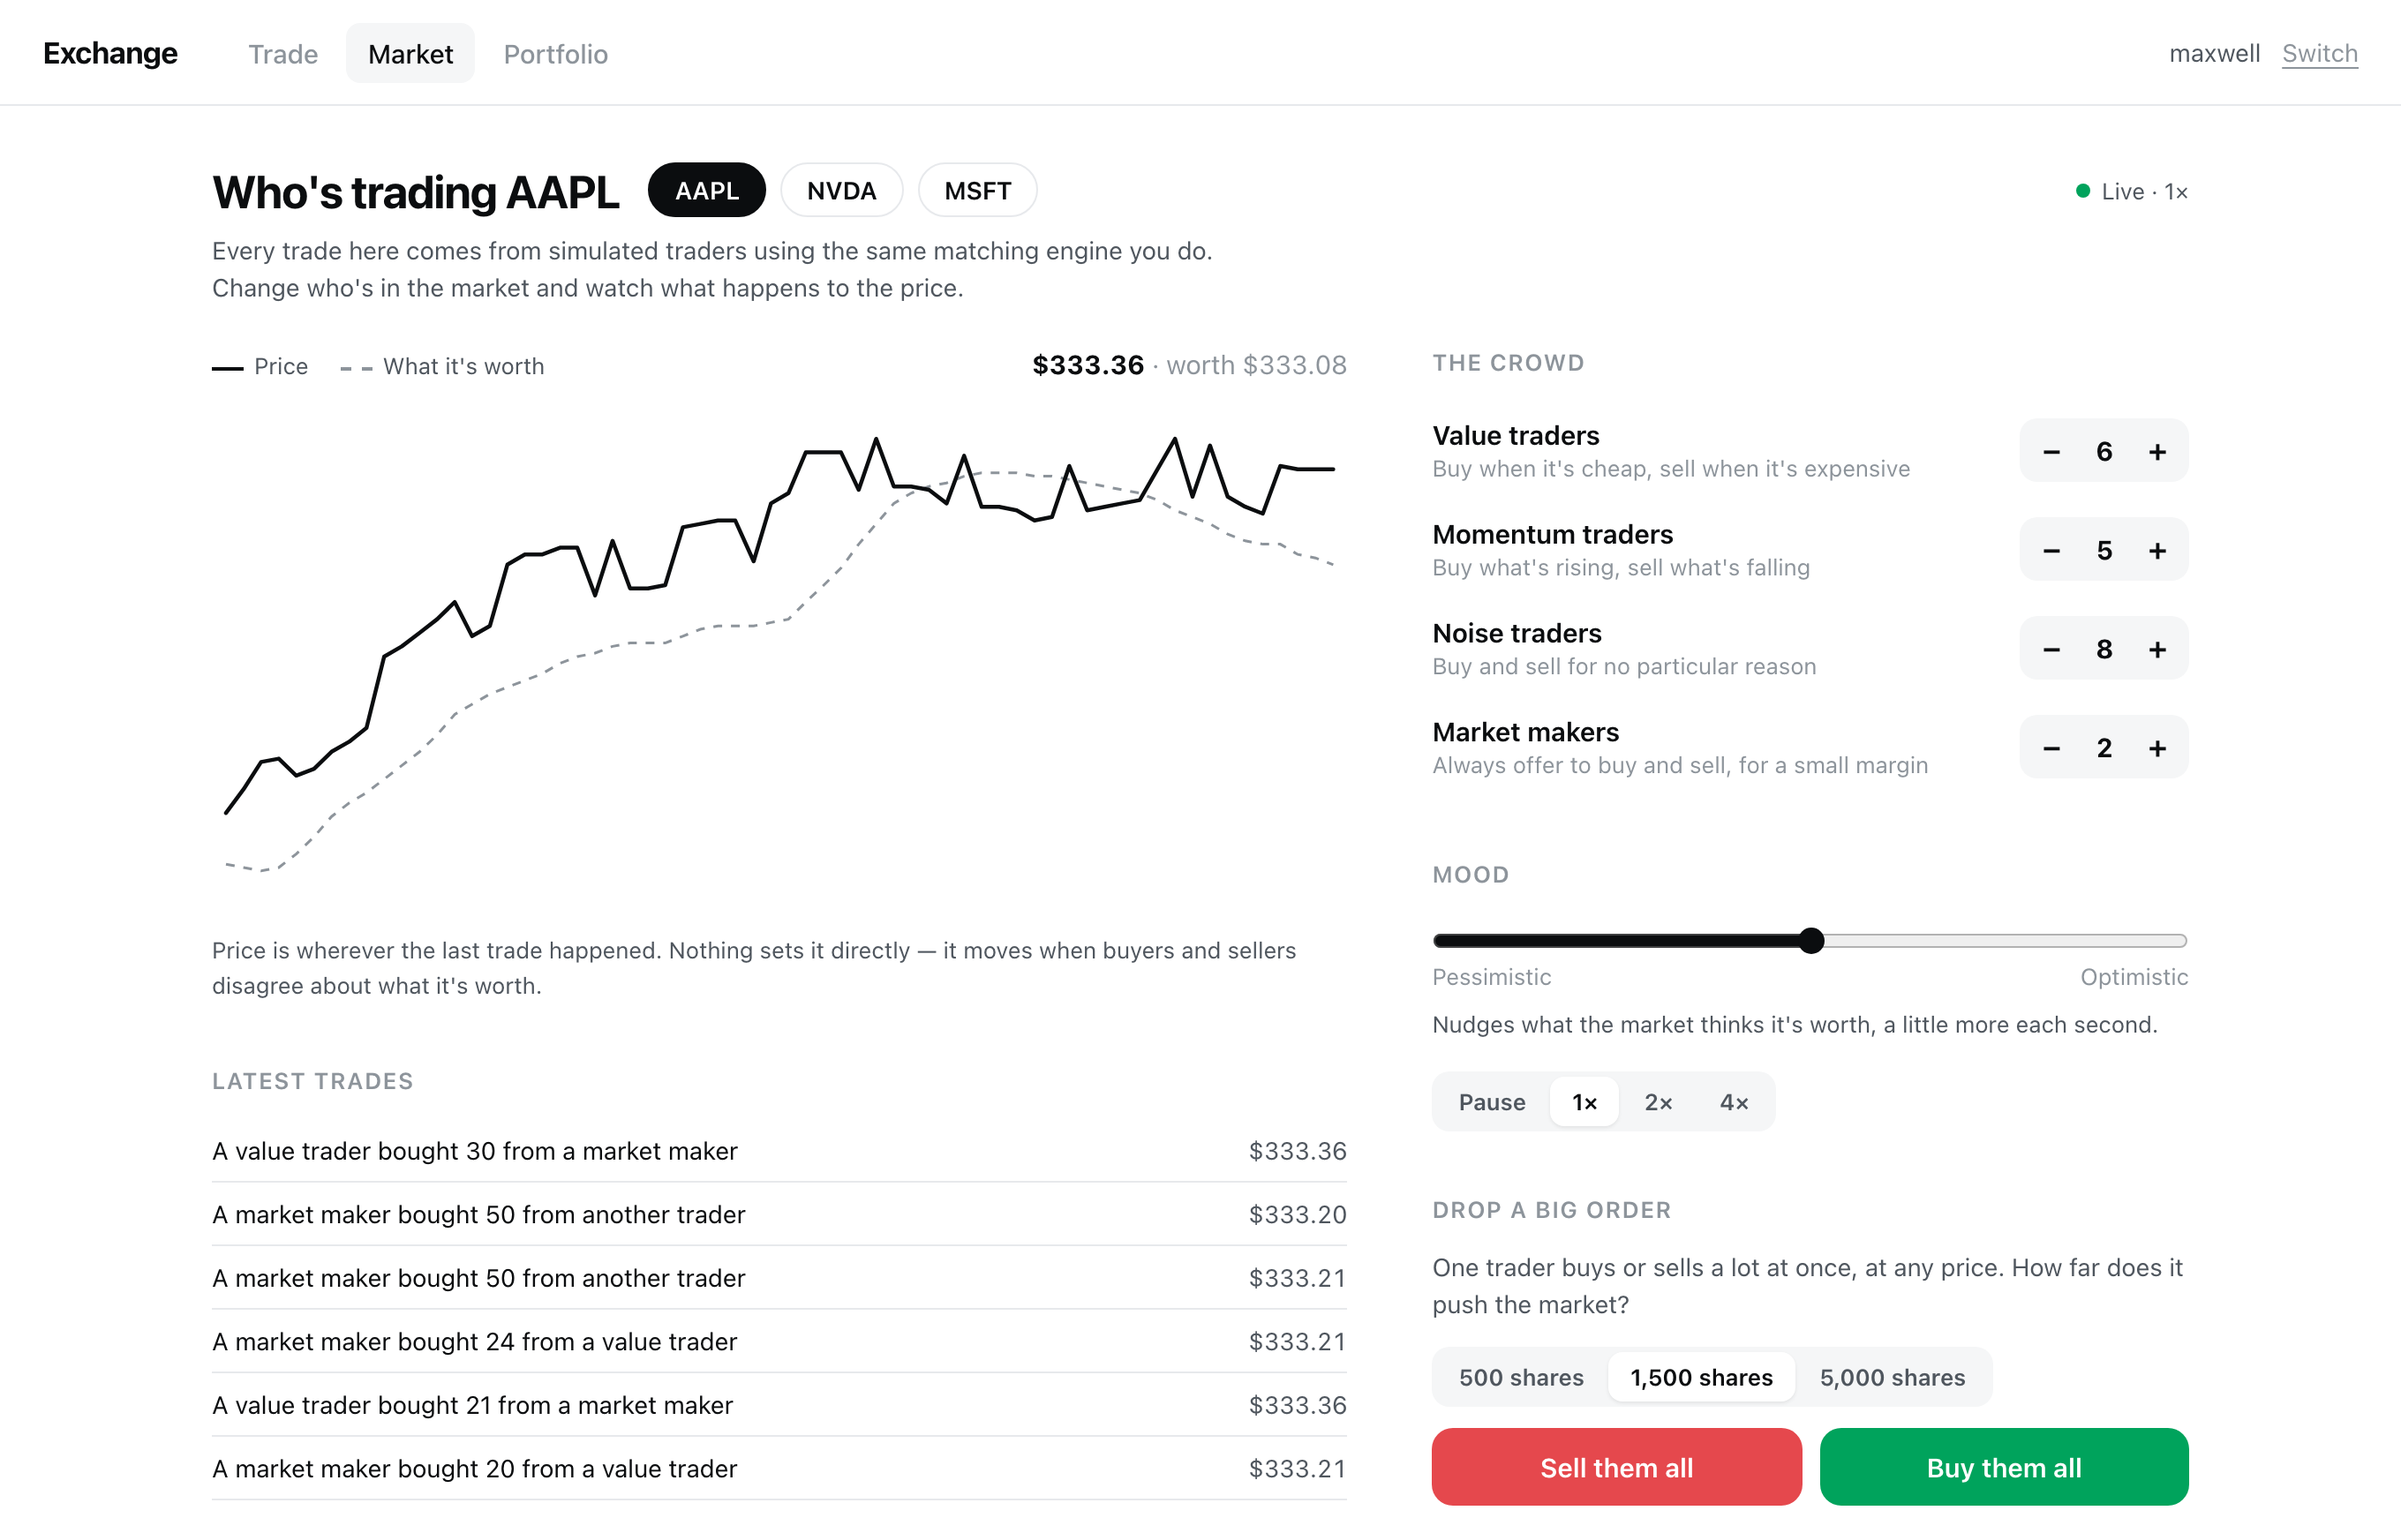
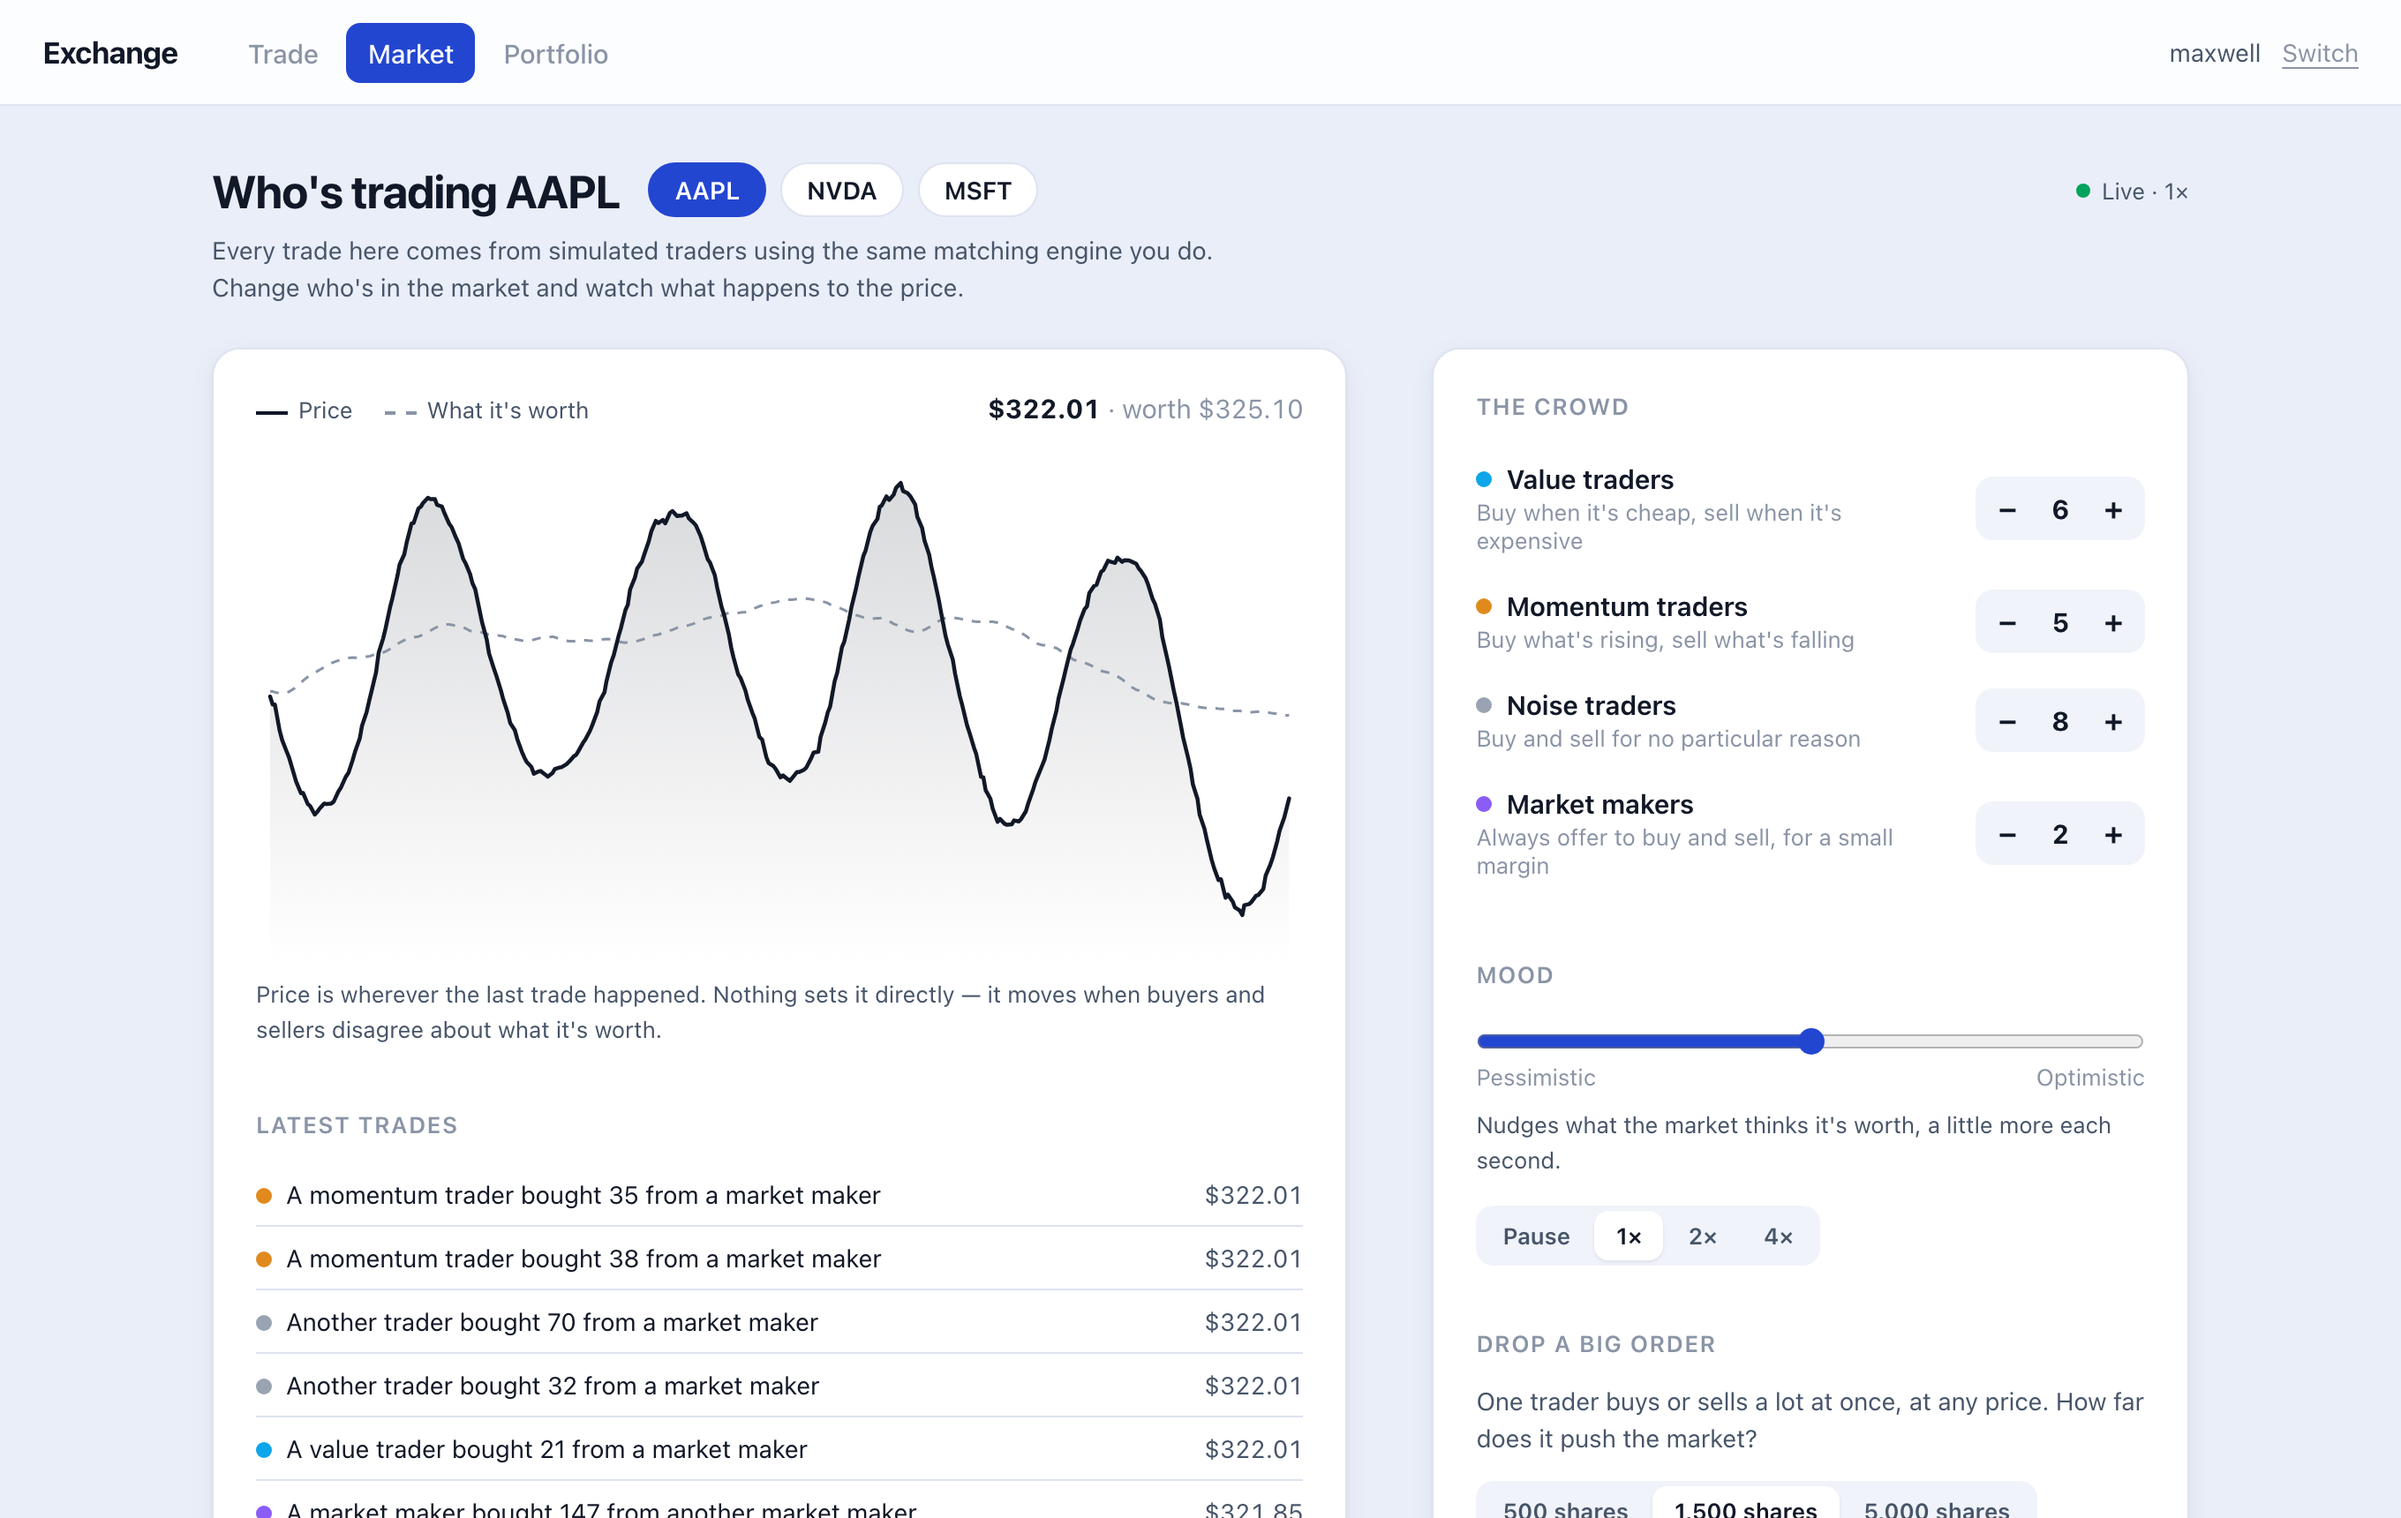
style: cobalt theme with card surfaces and per-bot colours
Sections sit on white cards over a blue-gray page, with one blue accent for
whatever is selected. Each kind of bot gets its own colour in the crowd list
and the trade feed, and the chart has a soft fill under the line. Bid and ask
drop to their own line on narrow screens.

diff --git a/frontend/src/index.css b/frontend/src/index.css
@@ -1,24 +1,37 @@
 :root {
-  --bg: #ffffff;
-  --panel: #f5f6f7;
-  --line: #e7e9ec;
-  --ink: #0b0d0f;
-  --ink-2: #4f565e;
-  --ink-3: #8d949b;
+  /* Theme tokens. --page is behind everything, --card is the raised surface. */
+  --page: #eaeef8;
+  --card: #ffffff;
+  --bg: var(--card);
+  --panel: #f0f3fa;
+  --line: #dde3f0;
+  --ink: #111827;
+  --ink-2: #475569;
+  --ink-3: #8a94a6;
+  --accent: #2346d1;
+  --accent-ink: #ffffff;
   --up: #00a35c;
   --down: #e5484d;
-  --up-soft: #e6f6ee;
-  --down-soft: #fdeced;
-  --radius: 14px;
+  --up-soft: #e3f5ec;
+  --down-soft: #fdeaeb;
+  --shadow: 0 1px 2px rgba(15, 23, 42, 0.04), 0 4px 16px rgba(15, 23, 42, 0.05);
+  /* One colour per kind of bot. Never green or red -- those mean up and down. */
+  --c-value: #0ea5e9;
+  --c-momentum: #e08a1e;
+  --c-noise: #9aa3b2;
+  --c-maker: #8b5cf6;
+  --radius: 16px;
   font-family: -apple-system, BlinkMacSystemFont, "SF Pro Text", "Segoe UI",
     Roboto, Helvetica, Arial, sans-serif;
   color: var(--ink);
-  background: var(--bg);
+  background: var(--page);
   -webkit-font-smoothing: antialiased;
 }
 
+
+
 * { box-sizing: border-box; }
-body { margin: 0; background: var(--bg); }
+body { margin: 0; background: var(--page); }
 button { font: inherit; color: inherit; }
 input { font: inherit; }
 .num { font-variant-numeric: tabular-nums; }
@@ -33,8 +46,8 @@ input { font: inherit; }
   position: sticky; top: 0; z-index: 10;
   display: flex; align-items: center; gap: 28px;
   height: 60px; padding: 0 24px;
-  background: rgba(255, 255, 255, 0.92);
-  backdrop-filter: blur(8px);
+  background: color-mix(in srgb, var(--card) 88%, transparent);
+  backdrop-filter: blur(10px);
   border-bottom: 1px solid var(--line);
 }
 .wordmark { font-weight: 700; font-size: 17px; letter-spacing: -0.02em; }
@@ -45,7 +58,7 @@ input { font: inherit; }
   font-size: 15px; font-weight: 500; color: var(--ink-3);
 }
 .tab:hover { color: var(--ink); }
-.tab.on { color: var(--ink); background: var(--panel); }
+.tab.on { color: var(--accent-ink); background: var(--accent); }
 .who { margin-left: auto; display: flex; align-items: center; gap: 12px; font-size: 14px; }
 .link {
   border: none; background: none; cursor: pointer; padding: 0;
@@ -76,7 +89,7 @@ main { padding: 32px 24px 80px; }
 .btn:disabled { opacity: 0.4; cursor: not-allowed; }
 .btn-buy { background: var(--up); color: #fff; }
 .btn-sell { background: var(--down); color: #fff; }
-.btn-ink { background: var(--ink); color: #fff; }
+.btn-ink { background: var(--accent); color: var(--accent-ink); }
 .btn-quiet { background: var(--panel); color: var(--ink); }
 
 .field { display: block; margin-bottom: 16px; }
@@ -86,11 +99,11 @@ main { padding: 32px 24px 80px; }
   border: 1px solid var(--line); border-radius: 12px; background: var(--bg);
   font-size: 17px; font-variant-numeric: tabular-nums;
 }
-.input:focus { outline: 2px solid var(--ink); outline-offset: -1px; border-color: transparent; }
+.input:focus { outline: 2px solid var(--accent); outline-offset: -1px; border-color: transparent; }
 
 .note { font-size: 14px; color: var(--ink-2); line-height: 1.5; }
 .err {
-  background: var(--down-soft); color: #a3262b;
+  background: var(--down-soft); color: var(--down);
   padding: 10px 14px; border-radius: 10px; font-size: 14px; margin-bottom: 16px;
 }
 
@@ -105,10 +118,10 @@ main { padding: 32px 24px 80px; }
 .trade { max-width: 680px; margin: 0 auto; }
 .symbols { display: flex; gap: 8px; margin-bottom: 20px; }
 .chip {
-  border: 1px solid var(--line); background: var(--bg); cursor: pointer;
+  border: 1px solid var(--line); background: var(--card); color: var(--ink); cursor: pointer;
   padding: 6px 14px; border-radius: 999px; font-size: 14px; font-weight: 600;
 }
-.chip.on { background: var(--ink); color: #fff; border-color: var(--ink); }
+.chip.on { background: var(--accent); color: var(--accent-ink); border-color: var(--accent); }
 
 .price-big { font-size: 52px; font-weight: 640; letter-spacing: -0.035em; line-height: 1; }
 .change { font-size: 15px; font-weight: 500; margin-top: 10px; min-height: 20px; }
@@ -174,7 +187,7 @@ main { padding: 32px 24px 80px; }
 .stepper b { width: 26px; text-align: center; font-size: 15px; font-variant-numeric: tabular-nums; }
 
 .block { margin-bottom: 36px; }
-.slider { width: 100%; accent-color: var(--ink); margin: 8px 0 4px; }
+.slider { width: 100%; accent-color: var(--accent); margin: 8px 0 4px; }
 .slider-ends { display: flex; justify-content: space-between; font-size: 13px; color: var(--ink-3); }
 .shock-buttons { display: grid; grid-template-columns: 1fr 1fr; gap: 10px; margin-top: 12px; }
 .shock-buttons .btn { height: 44px; font-size: 15px; }
@@ -219,4 +232,32 @@ main { padding: 32px 24px 80px; }
      they cost more room than they are worth. */
   .table .wide { display: none; }
   .market-head h1 { font-size: 22px; width: 100%; }
+  .ranges { flex-wrap: wrap; gap: 10px; }
+}
+
+
+/* ---------- surfaces ---------- */
+
+.surface {
+  background: var(--card); border: 1px solid var(--line);
+  border-radius: var(--radius); box-shadow: var(--shadow);
+}
+.trade.surface { padding: 28px 28px 24px; }
+.portfolio.surface { padding: 28px; }
+.market-grid > .surface { padding: 24px; }
+.stats div { background: var(--card); }
+.stats { background: var(--line); }
+
+/* ---------- bot colours ---------- */
+
+.dot { display: inline-block; width: 9px; height: 9px; border-radius: 50%; margin-right: 8px; vertical-align: 1px; flex: none; }
+.dot.value { background: var(--c-value); }
+.dot.momentum { background: var(--c-momentum); }
+.dot.noise { background: var(--c-noise); }
+.dot.maker { background: var(--c-maker); }
+.dot.you { background: var(--ink); }
+.dot.big { background: var(--down); }
+
+@media (max-width: 600px) {
+  .trade.surface, .portfolio.surface, .market-grid > .surface { padding: 18px; }
 }

diff --git a/frontend/src/views/MarketView.tsx b/frontend/src/views/MarketView.tsx
@@ -12,6 +12,13 @@ const CROWD: { key: keyof Population; name: string; desc: string; max: number }[
 ];
 const SIZES = [500, 1_500, 5_000];
 
+/** Which colour dot a trade side gets. */
+function kind(label: string | null, me: string): string {
+  if (label === me) return "you";
+  if (label === "big order") return "big";
+  return label && ["value", "momentum", "noise", "maker"].includes(label) ? label : "you";
+}
+
 interface Props {
   account: string;
   symbol: string;
@@ -106,7 +113,7 @@ export function MarketView({ account, symbol, symbols, onSymbol, book, trades }:
       {error && <div className="err" style={{ marginTop: 16 }}>{error}</div>}
 
       <div className="market-grid">
-        <div>
+        <div className="surface">
           <div style={{ display: "flex", justifyContent: "space-between", alignItems: "baseline" }}>
             <div className="legend">
               <span><i />Price</span>
@@ -146,7 +153,10 @@ export function MarketView({ account, symbol, symbols, onSymbol, book, trades }:
                     : seller.charAt(0).toLowerCase() + seller.slice(1);
                 return (
                   <li key={t.id} className={buyer === "You" || seller === "You" ? "mine" : ""}>
-                    <span>{buyer} bought {t.quantity} from {from}</span>
+                    <span style={{ display: "flex", alignItems: "baseline" }}>
+                      <span className={`dot ${kind(t.buyer, account)}`} />
+                      <span>{buyer} bought {t.quantity} from {from}</span>
+                    </span>
                     <span className="num soft">{money(t.price.cents)}</span>
                   </li>
                 );
@@ -155,7 +165,7 @@ export function MarketView({ account, symbol, symbols, onSymbol, book, trades }:
           )}
         </div>
 
-        <div>
+        <div className="surface">
           <div className="block">
             <h3 className="section-title">The crowd</h3>
             {CROWD.map((c) => {
@@ -163,7 +173,7 @@ export function MarketView({ account, symbol, symbols, onSymbol, book, trades }:
               return (
                 <div className="crowd-row" key={c.key}>
                   <div className="what">
-                    <div className="name">{c.name}</div>
+                    <div className="name"><span className={`dot ${c.key}`} />{c.name}</div>
                     <div className="desc">{c.desc}</div>
                   </div>
                   <div className="stepper">

diff --git a/frontend/src/components/PriceChart.tsx b/frontend/src/components/PriceChart.tsx
@@ -1,4 +1,4 @@
-import { useEffect, useRef, useState } from "react";
+import { useEffect, useId, useRef, useState } from "react";
 
 export interface Point {
   t: number; // seconds
@@ -48,6 +48,7 @@ export function PriceChart({
   const box = useRef<HTMLDivElement>(null);
   const [width, setWidth] = useState(600);
   const [hover, setHover] = useState<number | null>(null);
+  const gradId = useId();
 
   useEffect(() => {
     if (!box.current) return;
@@ -120,6 +121,16 @@ export function PriceChart({
       }}
     >
       <svg width={width} height={height} style={{ display: "block", overflow: "visible" }}>
+        <defs>
+          <linearGradient id={gradId} x1="0" y1="0" x2="0" y2="1">
+            <stop offset="0%" style={{ stopColor: stroke, stopOpacity: 0.16 }} />
+            <stop offset="100%" style={{ stopColor: stroke, stopOpacity: 0 }} />
+          </linearGradient>
+        </defs>
+        <path
+          d={`${path(series)}L${x(series[series.length - 1].t).toFixed(1)},${height}L${x(series[0].t).toFixed(1)},${height}Z`}
+          fill={`url(#${CSS.escape(gradId)})`} stroke="none"
+        />
         {baseline !== undefined && (
           <line
             x1={pad} x2={width - pad} y1={y(baseline)} y2={y(baseline)}

diff --git a/frontend/src/views/PortfolioView.tsx b/frontend/src/views/PortfolioView.tsx
@@ -25,7 +25,7 @@ export function PortfolioView({ portfolio: p, orders, onCancel }: Props) {
   const past = orders.filter((o) => !LIVE.has(o.status)).slice(0, 15);
 
   return (
-    <div className="portfolio">
+    <div className="portfolio surface">
       <p className="note muted" style={{ margin: "0 0 6px" }}>Total value</p>
       <div className="price-big num">{p.total_value ? money(p.total_value.cents) : "—"}</div>
       <div className={`change num ${tone(gain)}`}>

diff --git a/frontend/src/views/TradeView.tsx b/frontend/src/views/TradeView.tsx
@@ -55,7 +55,7 @@ export function TradeView({ symbol, symbols, onSymbol, last, book, portfolio, on
   const held = portfolio?.positions.find((p) => p.symbol === symbol);
 
   return (
-    <div className="trade">
+    <div className="trade surface">
       <div className="symbols">
         {symbols.map((s) => (
           <button key={s} className={`chip ${s === symbol ? "on" : ""}`} onClick={() => onSymbol(s)}>
